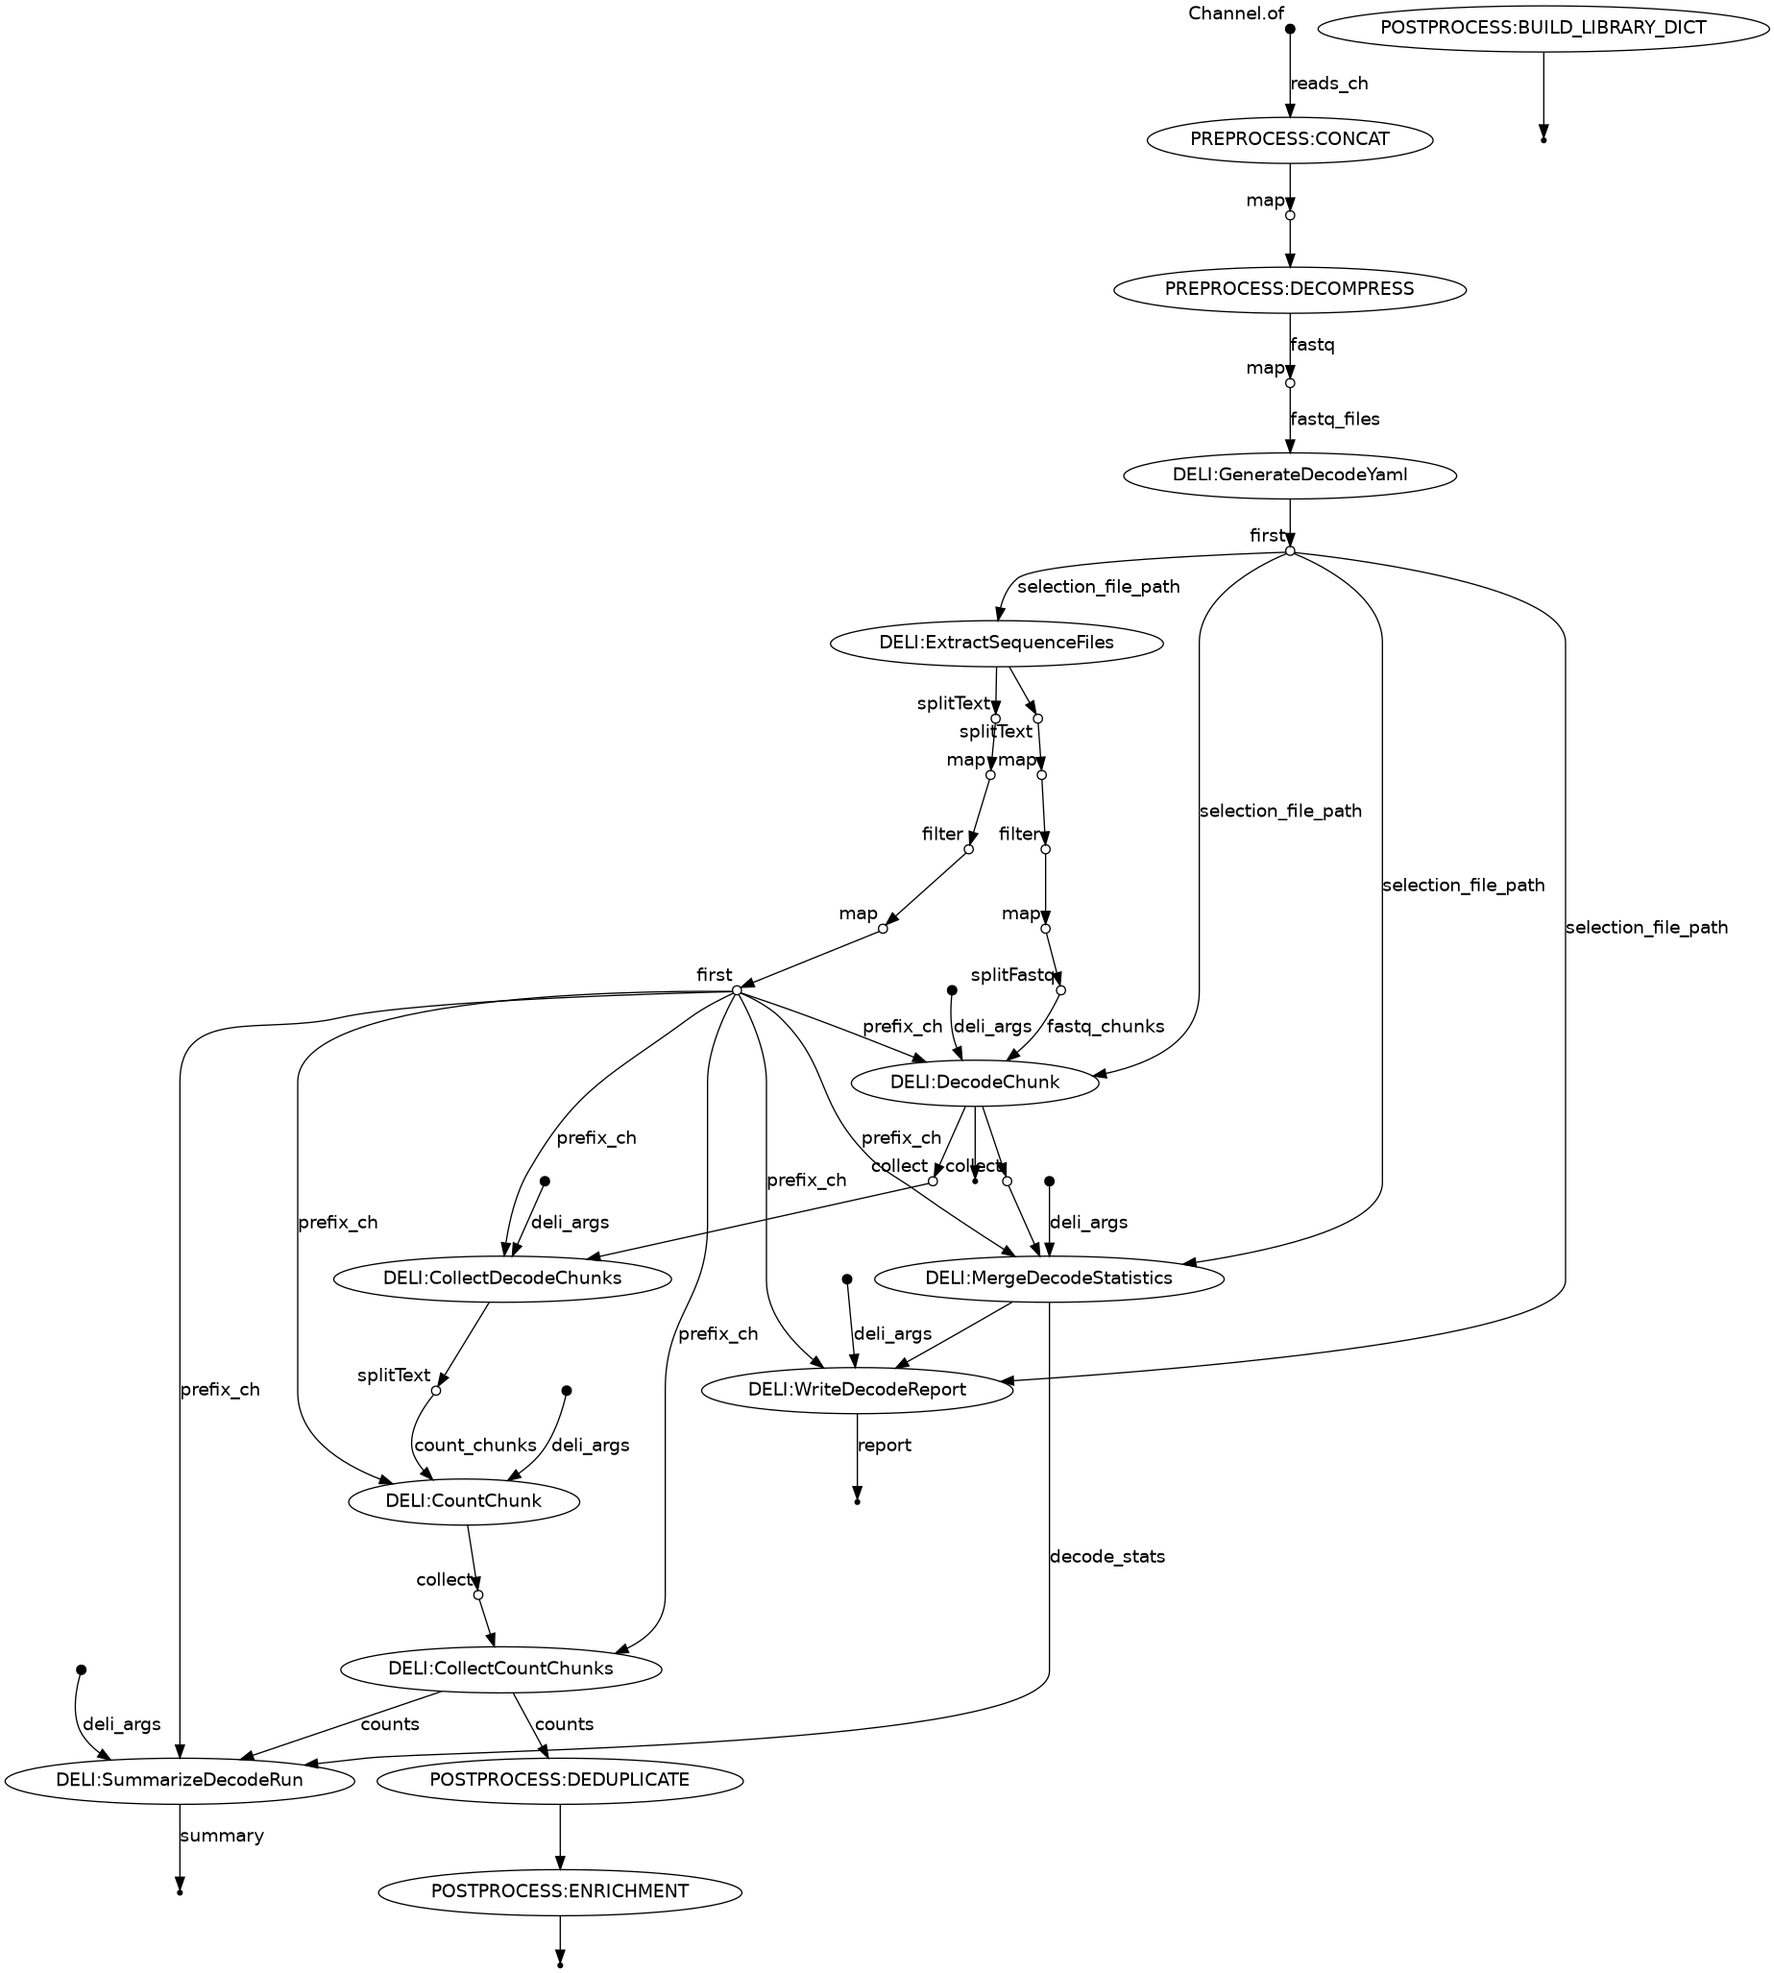
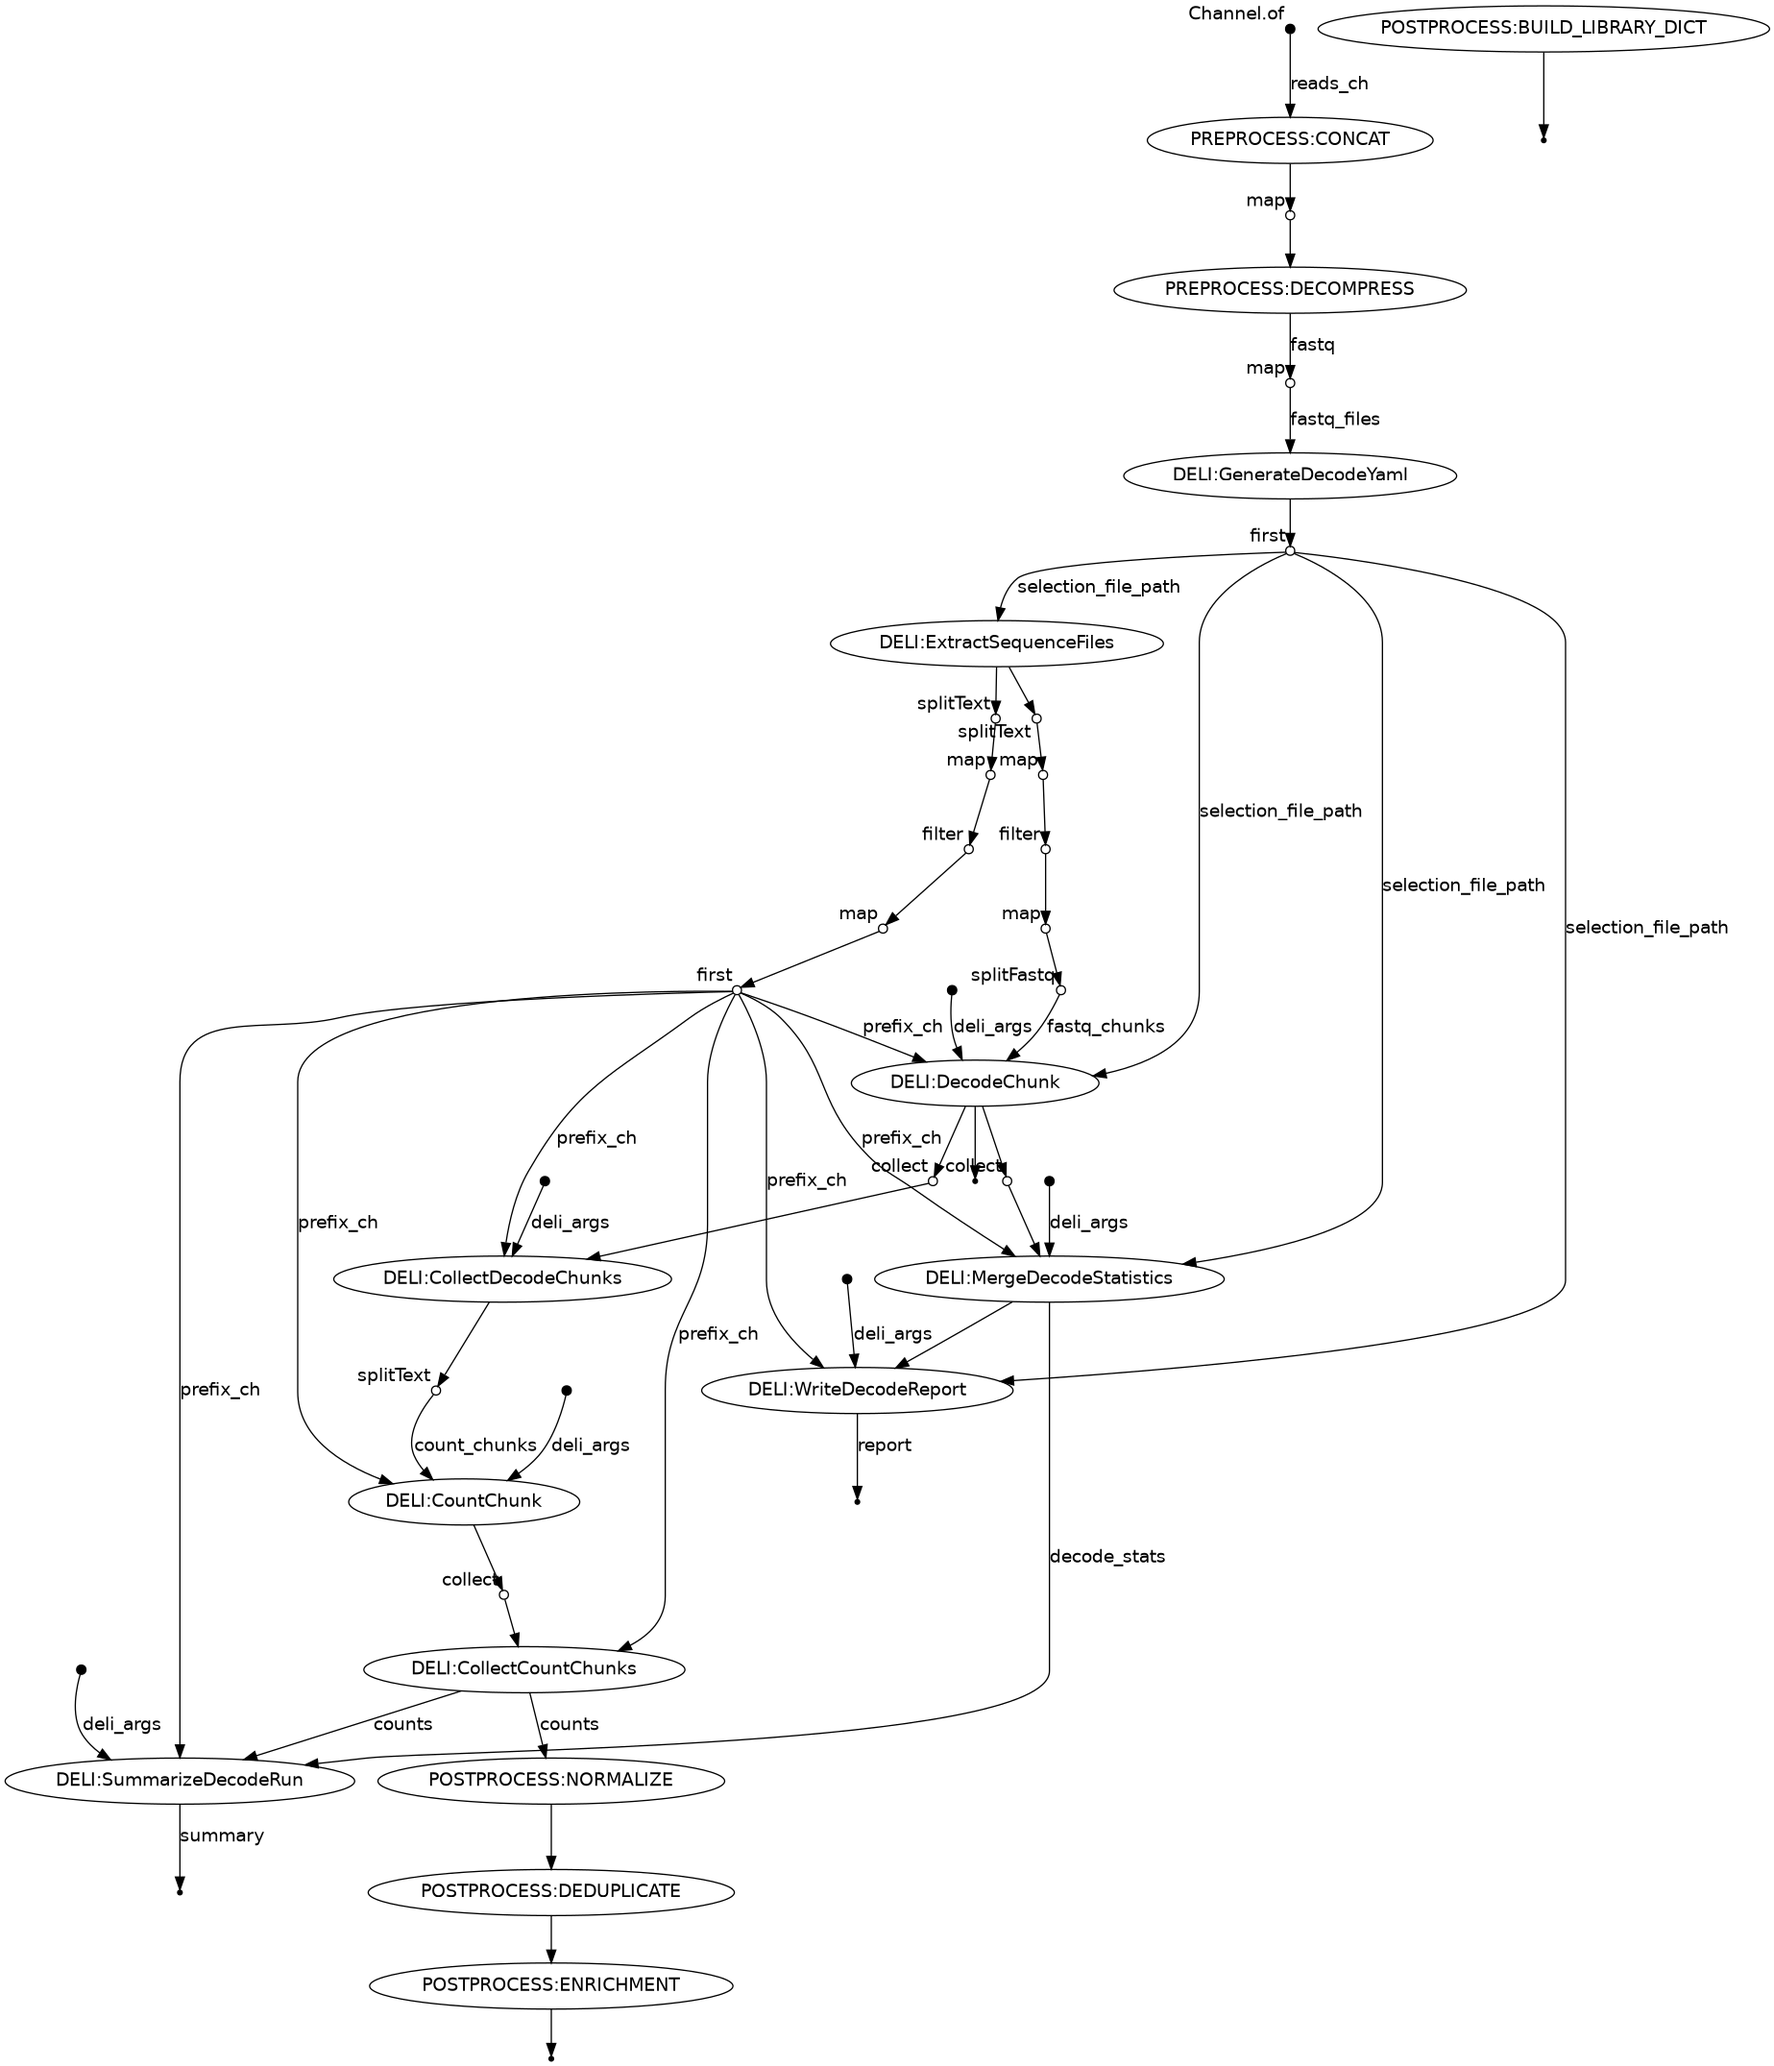
Add normalize step and install deliver as a Python package

diff --git a/dag.html b/dag.html
@@ -71,12 +71,13 @@ flowchart TB
     v29["report"]
     v37["summary"]
     v39[" "]
-    v42[" "]
+    v43[" "]
     end
     subgraph "POSTPROCESS [POSTPROCESS]"
     v38(["BUILD_LIBRARY_DICT"])
-    v40(["DEDUPLICATE"])
-    v41(["ENRICHMENT"])
+    v40(["NORMALIZE"])
+    v41(["DEDUPLICATE"])
+    v42(["ENRICHMENT"])
     end
     v4(( ))
     v0 --> v1
@@ -123,6 +124,7 @@ flowchart TB
     v38 --> v39
     v40 --> v41
     v41 --> v42
+    v42 --> v43
 
 </pre>
 <script type="module">

diff --git a/tests/test_postprocess.py b/tests/test_postprocess.py
@@ -6,8 +6,10 @@ import polars as pl
 import pytest
 
 from deliver.postprocess.build_library_dict import main as build_library_dict
+from deliver.postprocess.common import validate_common_format
 from deliver.postprocess.deduplicate import main as deduplicate
 from deliver.postprocess.enrichment import main as enrichment
+from deliver.postprocess.normalize import main as normalize, normalize as normalize_df
 
 
 @pytest.fixture
@@ -40,6 +42,21 @@ def deli_data_dir(tmp_path):
 
 
 @pytest.fixture
+def deli_counts_parquet(tmp_path):
+    """Minimal DELi counts parquet (3-cycle libraries)."""
+    df = pl.DataFrame({
+        "library_id":   ["L01", "L01", "L02"],
+        "bb_ids":       ["206,31,642", "206,31,643", "100,200,300"],
+        "count":        [10, 5, 8],
+        "raw_count":    [12, 6, 9],
+        "dedup_count":  [10, 5, 8],
+    })
+    path = tmp_path / "counts.parquet"
+    df.write_parquet(path)
+    return path
+
+
+@pytest.fixture
 def counts_parquet(tmp_path):
     """Minimal counts parquet file."""
     df = pl.DataFrame({
@@ -50,6 +67,96 @@ def counts_parquet(tmp_path):
     path = tmp_path / "counts.parquet"
     df.write_parquet(path)
     return path
+
+
+class TestNormalize:
+    def test_runs_and_writes_output(self, deli_counts_parquet, tmp_path):
+        out = tmp_path / "normalized.parquet"
+        normalize(["--input", str(deli_counts_parquet), "--output", str(out)])
+        assert out.exists()
+
+    def test_output_columns(self, deli_counts_parquet, tmp_path):
+        out = tmp_path / "normalized.parquet"
+        normalize(["--input", str(deli_counts_parquet), "--output", str(out)])
+        df = pl.read_parquet(out)
+        assert set(df.columns) == {"compound_id", "library_id", "A", "B", "C", "raw_count", "corrected_count"}
+
+    def test_compound_id_format(self, deli_counts_parquet, tmp_path):
+        out = tmp_path / "normalized.parquet"
+        normalize(["--input", str(deli_counts_parquet), "--output", str(out)])
+        df = pl.read_parquet(out)
+        assert "L01-206-31-642" in df["compound_id"].to_list()
+
+    def test_bb_ids_split_correctly(self, deli_counts_parquet, tmp_path):
+        out = tmp_path / "normalized.parquet"
+        normalize(["--input", str(deli_counts_parquet), "--output", str(out)])
+        df = pl.read_parquet(out).filter(pl.col("compound_id") == "L01-206-31-642")
+        assert df["A"][0] == "206"
+        assert df["B"][0] == "31"
+        assert df["C"][0] == "642"
+
+    def test_count_renamed(self, deli_counts_parquet, tmp_path):
+        out = tmp_path / "normalized.parquet"
+        normalize(["--input", str(deli_counts_parquet), "--output", str(out)])
+        df = pl.read_parquet(out)
+        assert "corrected_count" in df.columns
+        assert "count" not in df.columns
+
+    def test_dedup_count_dropped(self, deli_counts_parquet, tmp_path):
+        out = tmp_path / "normalized.parquet"
+        normalize(["--input", str(deli_counts_parquet), "--output", str(out)])
+        df = pl.read_parquet(out)
+        assert "dedup_count" not in df.columns
+
+    def test_works_without_dedup_count(self, tmp_path):
+        df = pl.DataFrame({
+            "library_id": ["L01"],
+            "bb_ids":     ["1,2,3"],
+            "count":      [5],
+            "raw_count":  [6],
+        })
+        inp = tmp_path / "counts.parquet"
+        df.write_parquet(inp)
+        out = tmp_path / "normalized.parquet"
+        normalize(["--input", str(inp), "--output", str(out)])
+        assert out.exists()
+
+    def test_missing_input_fails(self, tmp_path):
+        with pytest.raises(SystemExit):
+            normalize(["--input", str(tmp_path / "nonexistent.parquet"), "--output", str(tmp_path / "out.parquet")])
+
+    def test_missing_required_args_fails(self):
+        with pytest.raises(SystemExit):
+            normalize([])
+
+
+class TestValidateCommonFormat:
+    def test_valid_dataframe_passes(self):
+        df = pl.DataFrame({
+            "compound_id":      ["L01-1-2-3", "L01-1-2-4"],
+            "library_id":       ["L01", "L01"],
+            "raw_count":        [5, 3],
+            "corrected_count":  [4, 3],
+        })
+        validate_common_format(df)  # should not raise
+
+    def test_missing_column_fails(self):
+        df = pl.DataFrame({
+            "compound_id": ["L01-1-2-3"],
+            "library_id":  ["L01"],
+        })
+        with pytest.raises(SystemExit):
+            validate_common_format(df)
+
+    def test_duplicate_compound_id_fails(self):
+        df = pl.DataFrame({
+            "compound_id":      ["L01-1-2-3", "L01-1-2-3"],
+            "library_id":       ["L01", "L01"],
+            "raw_count":        [5, 5],
+            "corrected_count":  [4, 4],
+        })
+        with pytest.raises(SystemExit):
+            validate_common_format(df)
 
 
 class TestBuildLibraryDict:

diff --git a/src/deliver/postprocess/normalize.py b/src/deliver/postprocess/normalize.py
@@ -1,0 +1,62 @@
+"""Normalize DELi counts parquet to common format."""
+
+import argparse
+import sys
+from pathlib import Path
+
+import polars as pl
+
+from deliver.postprocess.common import validate_common_format
+
+DELI_REQUIRED_COLUMNS = {"library_id", "bb_ids", "count", "raw_count"}
+
+
+def normalize(df: pl.DataFrame) -> pl.DataFrame:
+    missing = DELI_REQUIRED_COLUMNS - set(df.columns)
+    if missing:
+        print(f"Error: missing required columns in DELi counts: {missing}", file=sys.stderr)
+        sys.exit(1)
+
+    bb_lists = df["bb_ids"].str.split(",")
+    max_cycles = bb_lists.list.len().max()
+
+    df = df.with_columns(
+        (pl.col("library_id") + "-" + pl.col("bb_ids").str.replace_all(",", "-")).alias("compound_id"),
+        bb_lists.alias("_bb_list"),
+    )
+
+    for i in range(max_cycles):
+        letter = chr(ord("A") + i)
+        df = df.with_columns(pl.col("_bb_list").list.get(i).alias(letter))
+
+    cols_to_drop = ["_bb_list", "bb_ids"] + [c for c in ["dedup_count"] if c in df.columns]
+    cycle_cols = [chr(ord("A") + i) for i in range(max_cycles)]
+
+    return (
+        df
+        .drop(cols_to_drop)
+        .rename({"count": "corrected_count"})
+        .select(["compound_id", "library_id"] + cycle_cols + ["raw_count", "corrected_count"])
+    )
+
+
+def main(args=None):
+    """Normalize DELi counts parquet to common format."""
+    parser = argparse.ArgumentParser(description="Normalize DELi counts parquet to common format.")
+    parser.add_argument("--input",  required=True, help="Input DELi counts parquet file.")
+    parser.add_argument("--output", required=True, help="Output normalized parquet file.")
+    parsed = parser.parse_args(args)
+
+    input_path = Path(parsed.input)
+    if not input_path.exists():
+        print(f"Error: input file not found: {input_path}", file=sys.stderr)
+        sys.exit(1)
+
+    df = pl.read_parquet(input_path)
+    df = normalize(df)
+    validate_common_format(df)
+    df.write_parquet(parsed.output)
+
+
+if __name__ == "__main__":
+    main()

diff --git a/src/deliver/postprocess/common.py b/src/deliver/postprocess/common.py
@@ -1,0 +1,20 @@
+"""Shared utilities for postprocessing scripts."""
+
+import sys
+
+import polars as pl
+
+COMMON_FORMAT_COLUMNS = {"compound_id", "library_id", "raw_count", "corrected_count"}
+
+
+def validate_common_format(df: pl.DataFrame) -> None:
+    """Validate that a dataframe conforms to the common postprocessing format."""
+    missing = COMMON_FORMAT_COLUMNS - set(df.columns)
+    if missing:
+        print(f"Error: missing required columns: {missing}", file=sys.stderr)
+        sys.exit(1)
+
+    dupes = df.filter(pl.col("compound_id").is_duplicated())
+    if len(dupes) > 0:
+        print(f"Error: compound_id is not unique ({len(dupes)} duplicate rows)", file=sys.stderr)
+        sys.exit(1)

diff --git a/README.md b/README.md
@@ -206,11 +206,13 @@ DELIVER/
 │   └── subworkflows/
 │       ├── preprocess.nf             # CONCAT + FASTP_MERGE (paired-end merge)
 │       ├── deli.nf                   # DELi processes + DELI workflow
-│       └── postprocess.nf            # BUILD_LIBRARY_DICT + DEDUPLICATE + ENRICHMENT workflows
+│       └── postprocess.nf            # BUILD_LIBRARY_DICT + NORMALIZE + DEDUPLICATE + ENRICHMENT
 ├── src/
 │   └── deliver/
-│       └── postprocess/              # standalone Click CLI scripts called by NF
+│       └── postprocess/              # standalone Python CLI scripts called by NF
+│           ├── common.py             # shared utilities (validate_common_format)
 │           ├── build_library_dict.py # build library dictionary JSON from DELi data
+│           ├── normalize.py          # normalize DELi counts → common format
 │           ├── deduplicate.py        # deduplication + aggregation (TODO)
 │           └── enrichment.py         # enrichment scoring (TODO)
 └── scripts/
@@ -237,6 +239,7 @@ This creates `libraries/` and `building_blocks/` inside `--output-dir`, which yo
 | Preprocessing: concat lanes, merge paired-end reads (fastp) | implemented |
 | DELi decoding: chunk → decode → collect → count → summarize → report | implemented |
 | Build library dictionary (library_dict.json) | implemented |
+| Normalize DELi counts → common format + validation | implemented |
 | Deduplication + aggregation | stub (TODO) |
 | Enrichment scoring | stub (TODO) |
 
